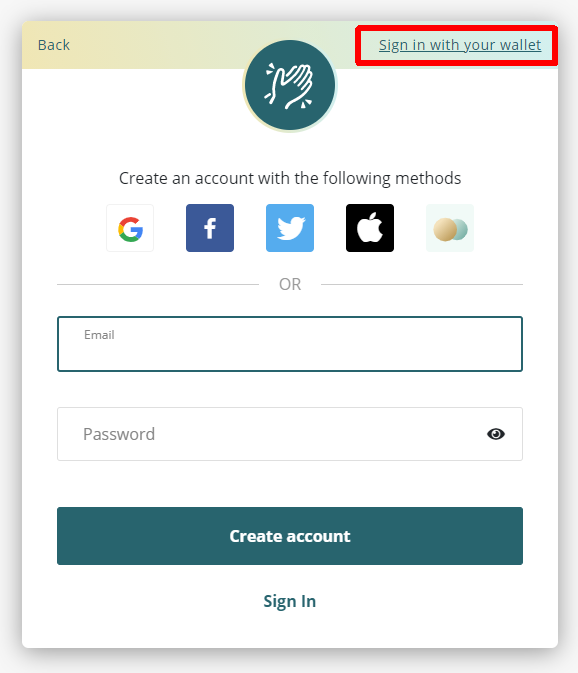
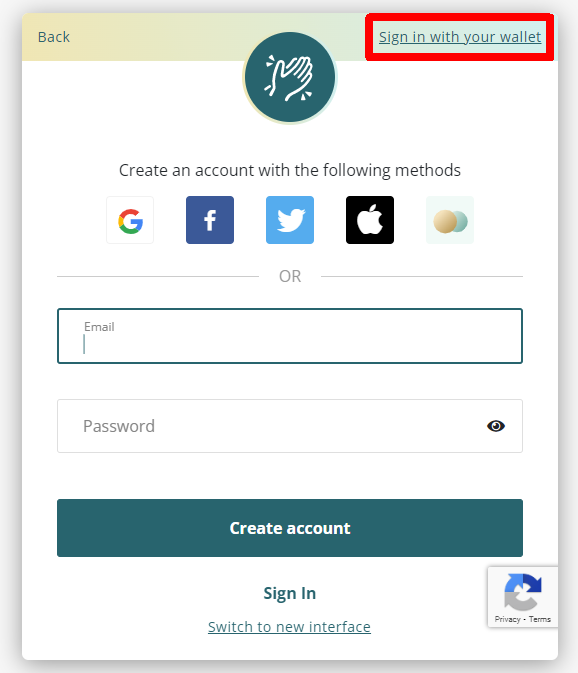
GitBook: [#4074] Register a Liker ID with Keplr

diff --git a/user-guide/liker-id/register-with-keplr.md b/user-guide/liker-id/register-with-keplr.md
@@ -35,23 +35,53 @@ Users can manage LikeCoin with [Cosmostation](../../general-guides/wallet/cosmos
 
 ### **Step 1: Install Keplr extension**
 
+Install the Keplr wallet before registering your Liker ID. If you have already completed the installation, please skip this step.
+
 {% content-ref url="../../general-guides/wallet/keplr/how-to-install-keplr-extension.md" %}
 [how-to-install-keplr-extension.md](../../general-guides/wallet/keplr/how-to-install-keplr-extension.md)
 {% endcontent-ref %}
 
-### Step 2: Register a Liker ID
+### Step 2: Start Registering
 
-On [Liker Land web](https://liker.land/), click "Sign up".
+Go to [https://liker.land/civic](https://liker.land/civic) and click "Register now".
 
-![](../../.gitbook/assets/keplr-liker-id-00-en.png)
+<figure><img src="../../.gitbook/assets/signup 05-en.png" alt=""><figcaption></figcaption></figure>
 
-Or go to [like.co/in](https://like.co/) and choose "Create account".
+Click "Sign Up" on the registration or login page.
 
-![](<../../.gitbook/assets/Keplr Liker ID 000  en.png>)
+<figure><img src="../../.gitbook/assets/signup 06-en.png" alt=""><figcaption></figcaption></figure>
+
+### Step 3: Register with new or old interface
+
+#### New Interface
+
+The following page appears, click "Switch to new Interface".
+
+<figure><img src="../../.gitbook/assets/signup 07-en.png" alt=""><figcaption></figcaption></figure>
+
+Click "Connect Using Keplr Browser Extension".
+
+<figure><img src="../../.gitbook/assets/Keplr Liker ID 12-en.png" alt=""><figcaption></figcaption></figure>
+
+The Keplr window pops up, click "Approvel".
+
+<figure><img src="../../.gitbook/assets/Keplr Liker ID 13-en.png" alt=""><figcaption></figcaption></figure>
+
+Fill in your desired Liker ID then click "Confirm".
+
+<figure><img src="../../.gitbook/assets/Keplr Liker ID 14-en.png" alt=""><figcaption></figcaption></figure>
+
+Enter your display name and bio and click "Confirm".
+
+<figure><img src="../../.gitbook/assets/Keplr Liker ID 15-en.png" alt=""><figcaption></figcaption></figure>
+
+Liker ID is created and will bring back the login page.
+
+#### Old Interface
 
 On the top right hand corner, click "Sign in with your wallet".
 
-![](../../.gitbook/assets/keplr-liker-id-01-en.png)
+<figure><img src="../../.gitbook/assets/Keplr Liker ID 01-en.png" alt=""><figcaption></figcaption></figure>
 
 Click "Sign up with Keplr".
 
@@ -71,9 +101,9 @@ Now you have to authorize the connection between Keplr and LikeCoin: On Requesti
 
 On the welcome screen, fill in your desired Liker ID and email address, then click "Confirm".
 
-![](../../.gitbook/assets/keplr-liker-id-05.png)
+<figure><img src="../../.gitbook/assets/Keplr Liker ID 05-en.png" alt=""><figcaption></figcaption></figure>
 
-Liker ID is created and will go back to the Liker Land web.
+Liker ID is created and will bring back the login page.
 
 {% hint style="warning" %}
 You cannot change the Liker ID nor the login method once it has been created. If you want to have another Liker ID, just create a new account. Please note that **an email address or a a wallet address can only register one Liker ID**.
@@ -81,21 +111,29 @@ You cannot change the Liker ID nor the login method once it has been created. If
 **You cannot use the same email address to register a Liker ID with both Authcore and Keplr.**
 {% endhint %}
 
-### Step 3: Check the Wallet
+### Step 4: Check the Wallet
 
-On Liker Land Web [settings](https://like.co/in/settings), your LikeCoin wallet address is the same as the Keplr address, which means that you have successfully registered your Liker ID with Keplr.
+On Liker Land [settings](https://like.co/in/settings), your LikeCoin wallet address is the same as the Keplr address, which means that you have successfully registered your Liker ID with Keplr.
 
 ![](../../.gitbook/assets/keplr-liker-id-06-en.png)
 
-### Step 4: User Keplr to Login Liker Land
+### Step 5: User Keplr to Login Liker Land
 
-After registration, if you would like to login Liker Land again, please login Keplr and visit [Liker Land web](https://liker.land/), then click "Sign in".
+After registration, if you would like to login Liker Land again, please login Keplr and visit [https://liker.land/civic/dashboard](https://liker.land/civic/dashboard), then click "Sign in".
 
-![](../../.gitbook/assets/keplr-liker-id-00-en.png)
+<figure><img src="../../.gitbook/assets/Keplr Liker ID 11-en.png" alt=""><figcaption></figcaption></figure>
+
+#### New Interface
+
+Click "Connect Using Keplr Browser Extension" and login.
+
+<figure><img src="../../.gitbook/assets/Keplr Liker ID 12-en.png" alt=""><figcaption></figcaption></figure>
+
+#### Old Interface
 
 On the top right hand corner, click "Sign in with your wallet".
 
-![](../../.gitbook/assets/keplr-liker-id-01-en.png)
+<figure><img src="../../.gitbook/assets/Keplr Liker ID 01-en.png" alt=""><figcaption></figcaption></figure>
 
 Click "Sign in with Keplr".
 
@@ -105,7 +143,7 @@ Click "Accept".
 
 ![](<../../.gitbook/assets/Keplr Liker ID 09-en.png>)
 
-The Keplr wallet Chain Add Request pop-up, click "Approve" and you can login to Liker Land web.
+The Keplr wallet Chain Add Request pop-up, click "Approve" and you can login to Liker Land.
 
 ![](<../../.gitbook/assets/Keplr Liker ID 04.png>)
 

diff --git a/general-guides/wallet/migration/upgrading-likecoin-erc20-to-likecoin-chain.md b/general-guides/wallet/migration/upgrading-likecoin-erc20-to-likecoin-chain.md
@@ -76,7 +76,7 @@ Please visit Google Play store or Apple App Store to [download the Liker Land ap
 
 If you login Liker ID by MetaMask wallet only, you can still follow the instruction above except that you should choose "Sign in with your wallet" on the upper right hand corner of the login screen, then choose "MetaMask" and you will be asked to set up a new password during the process.
 
-![](../../../.gitbook/assets/keplr-liker-id-01-en.png)
+![](broken-reference)
 
 ![](../../../.gitbook/assets/keplr-liker-id-02-en.png)
 
